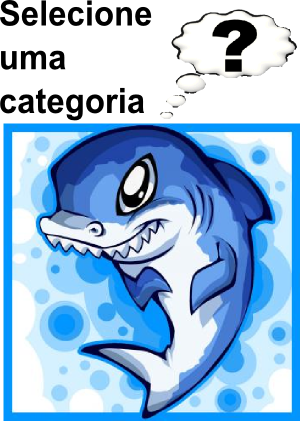
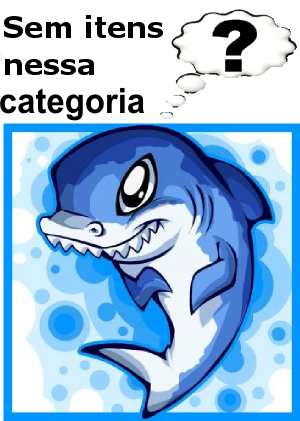
Many things working, woth the database. however, LIST is null when the alert is commented :( [there's no time to open the window properly] what to dooo?

Changed region(s): [[0.0, 0.0, 0.54, 0.1853]]

diff --git a/searchOffers.js b/searchOffers.js
@@ -1,11 +1,13 @@
 
-function searchOffers(str)
+function searchOffers(selectObj)
 {
+	var str = selectObj.options[selectObj.selectedIndex].value;
 	// get the index of the selected option 
-	if(str=="")
+	if(str==""){}
 	//do something
 else{
-if (window.XMLHttpRequest)
+ o=window.open("search.html");
+	if (window.XMLHttpRequest)
   {// code for IE7+, Firefox, Chrome, Opera, Safari
   xmlhttp=new XMLHttpRequest();
   }
@@ -17,43 +19,32 @@ xmlhttp.onreadystatechange=function()
   {
   if (xmlhttp.readyState==4 && xmlhttp.status==200)
     {
-	 o=window.open("search.html");
+	alert("worked"+xmlhttp.responseText);
+	
    	showOfferList(xmlhttp.responseText);
     }
   }
-xmlhttp.open("GET","getData.php?function="+category+"&category="+str,true);
+xmlhttp.open("GET","getData.php?function=category&category="+str,true);
 xmlhttp.send();
+
  
  }
 }
 
 function showOfferList(databaseReturn)
 {
-o.document.getElementById('offers').innerHTLM=databaseReturn;
-//put the html the php returned somewhere
+
+ var list = o.document.getElementById('offers');
+  list.innerHTML=databaseReturn;
+	
 }
 
 function showOffer(offerName)
 {
  //??
+ alert();
 }
 /*
-function addElement(url)
-{
- var list= o.document.getElementById('offers');
- var newItem = document.createElement('li');
- var img = document.createElement('img');
- img.setAttribute('src', url);
- newItem.appendChild(img);
-
- list.appendChild(newItem);
- if(url=="images/question_shark.png")
- {  		 
-			addSelector();
-			}
-}
-
-
 function addSelector()
 {
 

diff --git a/index.html b/index.html
@@ -9,7 +9,7 @@
     <link rel="stylesheet" type="text/css" href="css/default.css" media="screen"/>
     <meta name="generator" content="CoffeeCup HTML Editor (www.coffeecup.com)"/>
     <meta name="generator" content="CoffeeCup HTML Editor (www.coffeecup.com)"/>
-  <script src="searchOffers.js"></script></head>
+  <script src="searchOffers.js" type="text/javascript"></script></head>
   <body>
     <div style="Z-INDEX: 100; POSITION: absolute; WIDTH: 994px; HEIGHT: 876px; TOP: 32px; LEFT: 41px" id="wrapper">&nbsp;<img style="Z-INDEX: 103; POSITION: fixed; TOP: -6px; LEFT: 886px" border="0" src="images/shark.jpg" width="114" height="125"/><div id="header">
         <font size="50">&nbsp; <img style="Z-INDEX: 100; POSITION: absolute; TOP: 199px; LEFT: 164px" border="0" align="middle" src="images/oferta.jpg" width="655" height="638"/>&nbsp;&nbsp;&nbsp;</font> <li>
@@ -20,7 +20,7 @@
           <a href="about-us.html">
             <font color="#ffffff">Sua conta</font></a> 
 			
-			<select style="Z-INDEX: 102; POSITION: absolute; TOP: 116px; LEFT: 408px" onchange="searchOffers(this.value)">
+			<select style="Z-INDEX: 102; POSITION: absolute; TOP: 116px; LEFT: 408px" onchange="searchOffers(this)">
 				<option value = "">Procure outras ofertas</option>
 				<option value="G">Gastronomia</option> 
 				<option value="N">Entretenimento</option>

diff --git a/getData.php b/getData.php
@@ -1,36 +1,42 @@
 <?php
 include 'DatabaseControl.php';
+$whatFunction=$_GET['function'];
 
-$whatFunction=$_GET["function"];
-
-if($whatFunction="category");
- getCategory($_GET["category"]);
+if($whatFunction=="category"){
+ getCategory($_GET['category']);
+ }
  
-if($whatFunction="oneOffer");
-	getOffer($_GET["name"]);
-
+if($whatFunction=="oneOffer"){
+	getOffer($_GET['name']);
+	}
+header('Content-Type: text/plain');
+exit();
  
 function getCategory($category){
 
 $offersFromCategory = getDatabaseData("oferta", "categoria", $category);
 
-
+if($offersFromCategory!=""){
 $i=0;
-while($row = $offersFromCategory[$i])
-  {
-  $i++;
+while($i<count($offersFromCategory)){
+$row = $offersFromCategory[$i];
 
- echo "<li><img onclick=\"showOffer(".$row['nome'].")\" src=\"".$row['file']."\"/></li>"
-  }
-
+ echo "<li><img onclick=\"showOffer('".$row['nomeproduto']."')\" src=\"".$row['foto']."\"/></li>";
+$i++;
+}
+}
+else
+	echo "<li><img  src=\"images/question_shark.png\"/></li>";
 
 }
 
 function getOffer($name)
 {
-$offer=getDatabaseData("oferta", "nome", $name);
+$offer=getDatabaseData("oferta", "nomeoferta", $name);
 
 //how to show the offer?
 
 }
+
+
 ?> 

diff --git a/DatabaseControl.php b/DatabaseControl.php
@@ -2,7 +2,7 @@
 function getDatabaseData($table, $key, $THEkey)
 {
 
-$con = mysql_connect('localhost', '', 'rawr');
+$con = mysql_connect('localhost', 'root');
 if (!$con)
   {
   die('Could not connect: ' . mysql_error());
@@ -10,14 +10,19 @@ if (!$con)
 
 mysql_select_db("tubaraourbano", $con);
 
-$sql="SELECT * FROM".$table."WHERE".$key." = '".$THEkey."'";
+$sql="SELECT * FROM ".$table." WHERE ".$key." = '".$THEkey."'";
 
 $result = mysql_query($sql);
-
- while ($aRow = mysql_fetch_array($pResult)) {
+if(mysql_num_rows($result)<1){
+	return "";
+	}
+	else{
+ while ($aRow = mysql_fetch_array($result)) {
         $aResult[]= $aRow;
     }
- return $aResult; 
+	return $aResult; 
+
+}
 
 }
 
